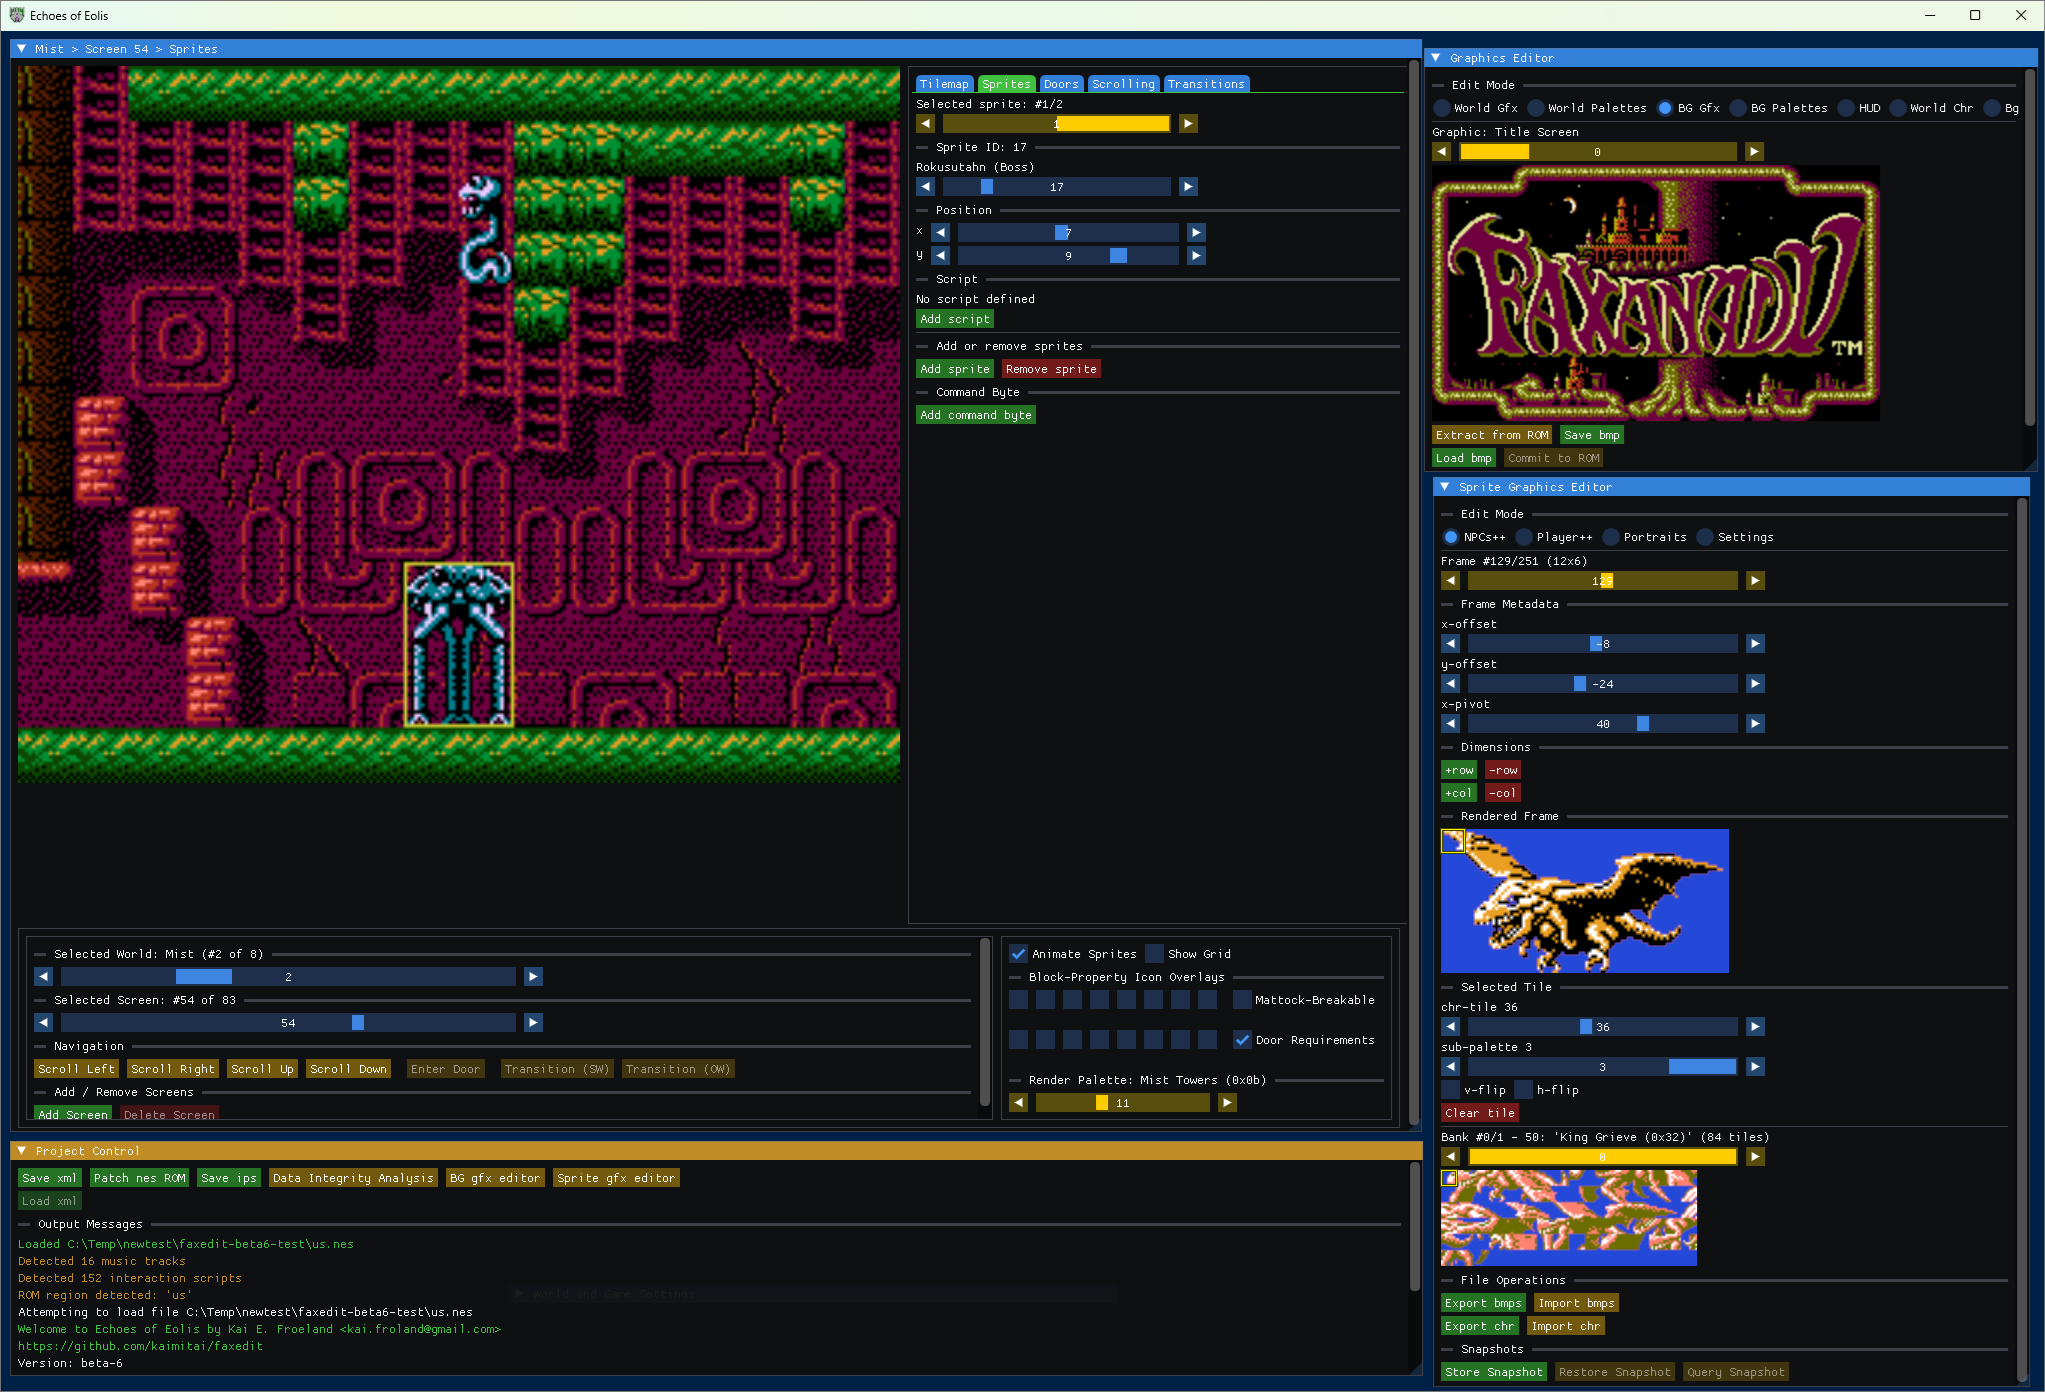
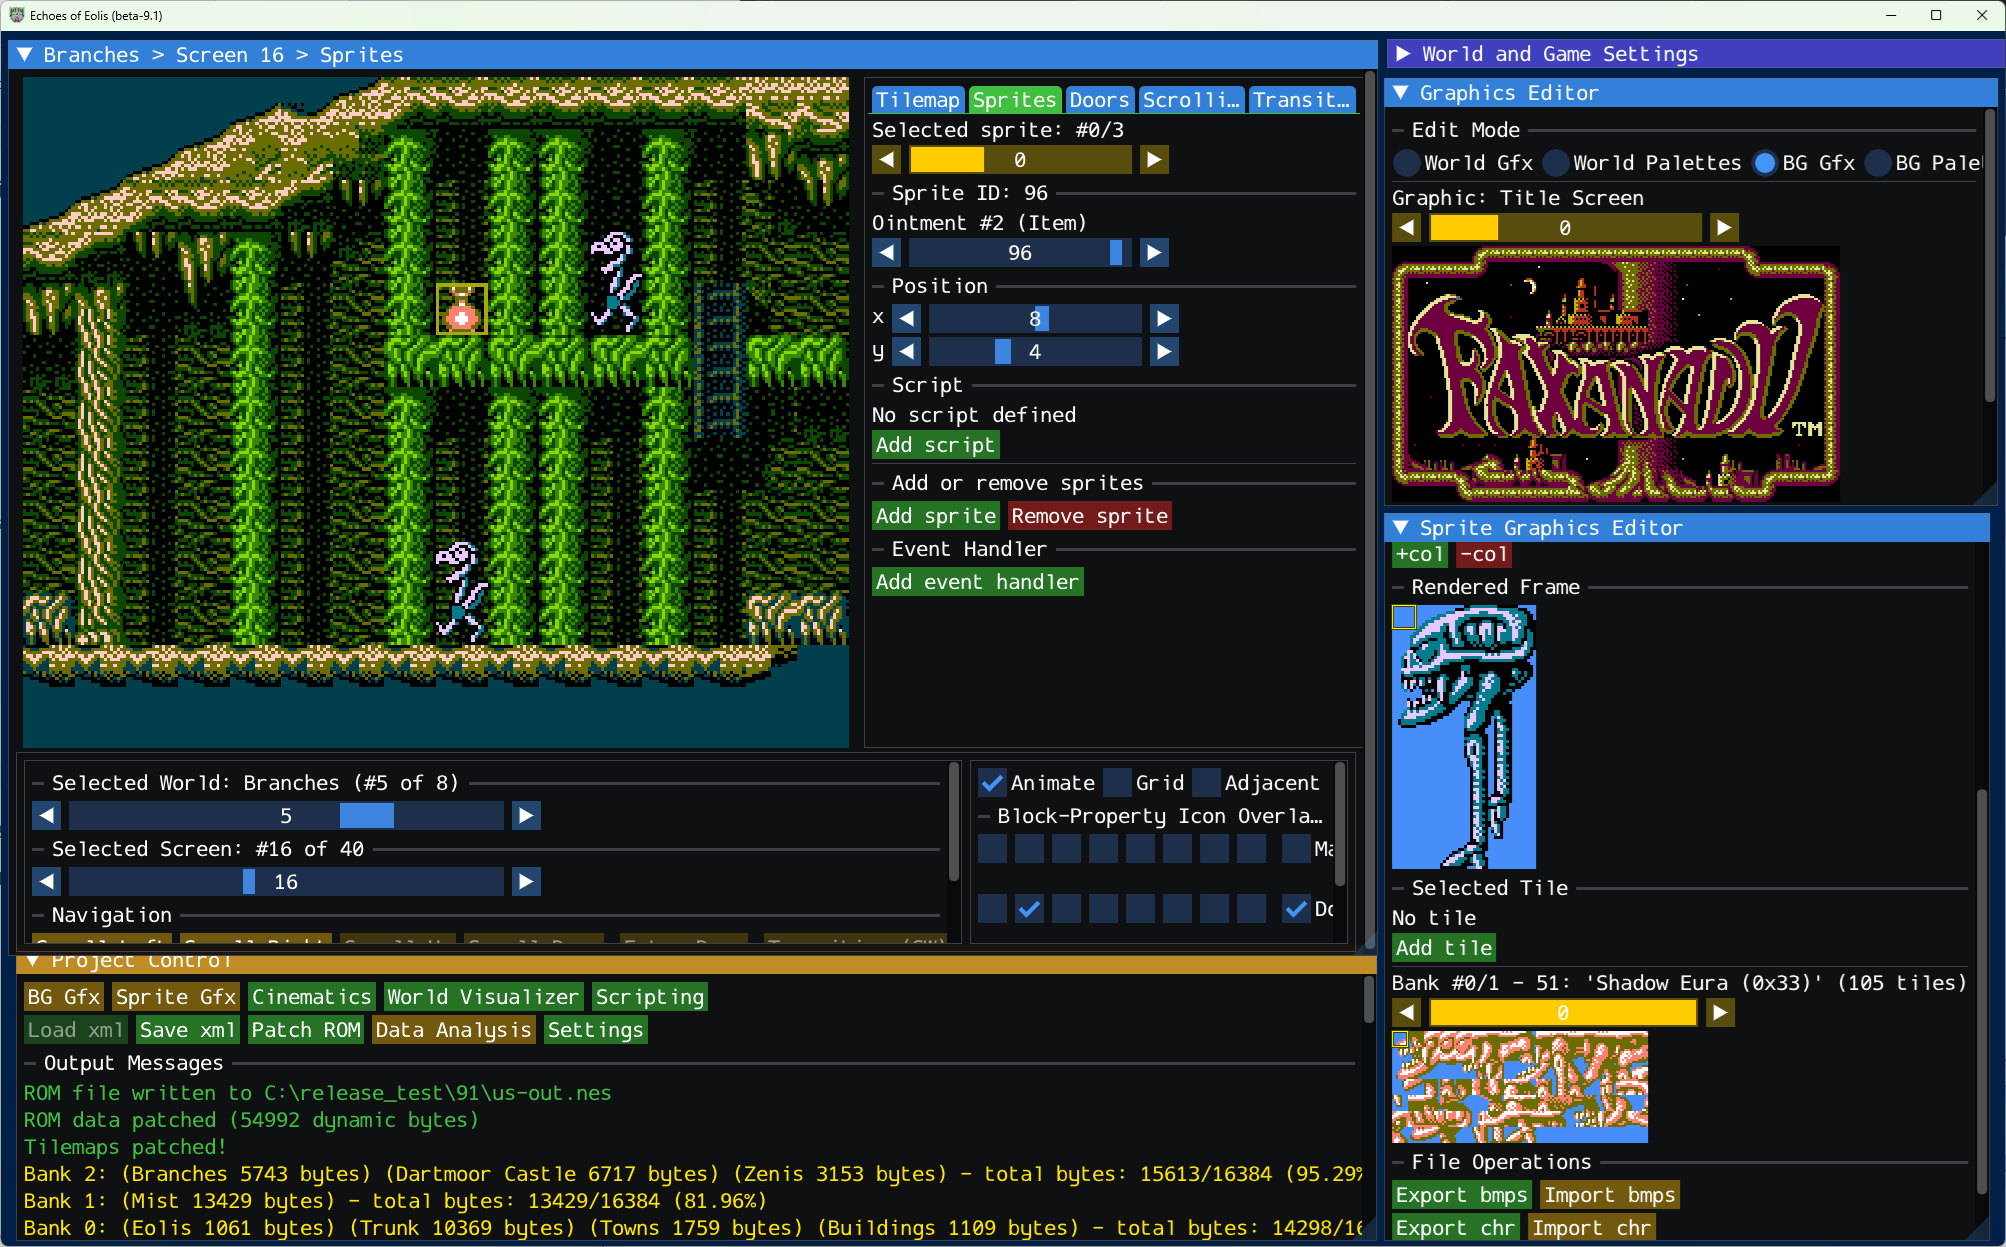
Reorganize project control window
- group editor windows and project actions into separate rows
- shorten control button labels
- hide IPS generation by default
- remove external ROM changes button
- update project control documentation and screenshots

diff --git a/faxedit/src/windows/ControlWindow.cpp b/faxedit/src/windows/ControlWindow.cpp
@@ -62,64 +62,24 @@ void fe::MainWindow::patch_nes_rom(bool p_in_place) {
 }
 
 void fe::MainWindow::draw_control_window(SDL_Renderer* p_rnd) {
+	const bool l_shift{ ImGui::IsKeyDown(ImGuiMod_Shift) };
 
 	ui::imgui_screen("Project Control###pcw", c::WIN_CONTROLS_X, c::WIN_CONTROLS_Y,
 		c::WIN_CONTROLS_W, c::WIN_CONTROLS_H, 4);
 
-	if (ui::imgui_button("Save xml", 2))
-		save_xml();
-
-	ImGui::SameLine();
-
-	bool l_shift{ ImGui::IsKeyDown(ImGuiMod_Shift) };
-
-	if (ui::imgui_button("Patch nes ROM",
-		l_shift ? 4 : 2,
-		"Patch loaded ROM file"))
-		patch_nes_rom(l_shift);
-
-	if (m_settings.m_enable_ips_button) {
-
-		ImGui::SameLine();
-
-		if (ui::imgui_button("Save ips", 2, "Generate ips patch file")) {
-
-			try {
-				const auto tmp_config{ hot_reload_config() };
-				fe::game::generate_ips_to_file(tmp_config, m_game.value(), get_ips_path(),
-					get_rom_patch_options(m_settings), m_msg_callback);
-			}
-			catch (const std::exception& ex) {
-				add_message(ex.what(), fe::MsgType::Error);
-			}
-		}
-	}
-
-	ImGui::SameLine();
-
-	if (ui::imgui_button("Data Integrity Analysis", 4)) try {
-		fe::game::analyze_game_data(m_game.value(), m_config,
-			m_settings.m_warn_tilemap_95_pct, m_settings.m_warn_00_doors, m_msg_callback);
-	}
-	catch (const std::exception& ex) {
-		add_message(std::format("Data Integrity Analysis failed: {}", ex.what()), fe::MsgType::Error);
-	}
-
-	ImGui::SameLine();
-
-	if (ui::imgui_button("BG gfx editor",
+	if (ui::imgui_button("BG Gfx",
 		m_gfx_window ? 4 : 2))
 		m_gfx_window = !m_gfx_window;
 
 	ImGui::SameLine();
 
-	if (ui::imgui_button("Sprite gfx editor",
+	if (ui::imgui_button("Sprite Gfx",
 		m_sprite_gfx_window ? 4 : 2))
 		m_sprite_gfx_window = !m_sprite_gfx_window;
 
 	ImGui::SameLine();
 
-	if (ui::imgui_button("Cinematic editor",
+	if (ui::imgui_button("Cinematics",
 		m_cinematic_window ? 4 : 2))
 		m_cinematic_window = !m_cinematic_window;
 
@@ -147,18 +107,46 @@ void fe::MainWindow::draw_control_window(SDL_Renderer* p_rnd) {
 		}
 	}
 
-	if (ui::imgui_button("Load xml", 2, "", !ImGui::IsKeyDown(ImGuiMod_Shift)))
+	if (ui::imgui_button("Load xml", 2, "", !l_shift))
 		load_xml(p_rnd);
 
 	ImGui::SameLine();
 
-	if (ui::imgui_button("Apply External ROM Changes", 4,
-		"Re-read the ROM file from disk and apply external changes. Does not rebuild or reset the editor state.")) try {
-		int byte_diffs{ load_external_rom_data(klib::file::read_file_as_bytes(m_loaded_rom_path)) };
-		add_message(std::format("Applied external changes from {} ({} bytes different)", m_loaded_rom_path, byte_diffs), fe::MsgType::Success);
+	if (ui::imgui_button("Save xml", 2))
+		save_xml();
+
+	ImGui::SameLine();
+
+	if (ui::imgui_button("Patch ROM",
+		l_shift ? 4 : 2,
+		"Patch loaded ROM file"))
+		patch_nes_rom(l_shift);
+
+	if (m_settings.m_enable_ips_button) {
+
+		ImGui::SameLine();
+
+		if (ui::imgui_button("Save ips", 2, "Generate ips patch file")) {
+
+			try {
+				const auto tmp_config{ hot_reload_config() };
+				fe::game::generate_ips_to_file(tmp_config, m_game.value(), get_ips_path(),
+					get_rom_patch_options(m_settings), m_msg_callback);
+			}
+			catch (const std::exception& ex) {
+				add_message(ex.what(), fe::MsgType::Error);
+			}
+		}
+	}
+
+	ImGui::SameLine();
+
+	if (ui::imgui_button("Data Analysis", 4)) try {
+		fe::game::analyze_game_data(m_game.value(), m_config,
+			m_settings.m_warn_tilemap_95_pct, m_settings.m_warn_00_doors, m_msg_callback);
 	}
 	catch (const std::exception& ex) {
-		add_message(ex.what(), fe::MsgType::Error);
+		add_message(std::format("Data Integrity Analysis failed: {}", ex.what()), fe::MsgType::Error);
 	}
 
 	ImGui::SameLine();

diff --git a/eoe_core/src/fe/EditorSettings.cpp b/eoe_core/src/fe/EditorSettings.cpp
@@ -84,7 +84,7 @@ void fe::EditorSettings::set_rendering_defaults(void) {
 void fe::EditorSettings::set_advanced_defaults(void) {
 	m_door_pad_byte = false;
 	m_enable_config_dump = false;
-	m_enable_ips_button = true;
+	m_enable_ips_button = false;
 	m_warn_tilemap_95_pct = true;
 	m_warn_00_doors = true;
 }

diff --git a/docs/user-guide.md b/docs/user-guide.md
@@ -77,20 +77,24 @@ This is the screen used for file operations and data analysis.
 
 ![Project control](./img/win_project_control.png)
 
-* Save xml: Saves the project as an xml-file, the recommended master data format
-* Patch nes ROM: Writes the ROM file, appends -out to the filename so your loaded file is not overwritten. Will show output messages regarding the used data sizes (hold shift to patch the ROM in-place)
-* Save ips: Generates an ips patch file
-* Data Integrity Analysis: Does some checking on whether there is problems in your data
-* BG gfx editor: Opens or closes the Background Graphics Editor window
-* Sprite gfx editor: Opens or closes the Sprite Graphics Editor window
-* Cinematic editor: Opens or closes the Cinematic Editor window
-* World Visualizer: Opens a window which lets you export an entire world to a png-image, with certain parameters
-* Load xml: Reloads xml from file and re-populates your data. Hold Shift to use.
-* Apply External ROM Changes: Re-reads the loaded rom from disk, and regenerates iScripts and music track counts. Should be used if the ROM undergoes external changes.
-* Output Messages: The messages from the editor
-* Settings: Opens the [settings window](#settings)
+- Top row buttons
+  - `BG Gfx`: Opens or closes the Background Graphics Editor window
+  - `Sprite Gfx`: Opens or closes the Sprite Graphics Editor window
+  - `Cinematics`: Opens or closes the Cinematic Editor window
+  - `World Visualizer`: Opens a window which lets you export an entire world to a png-image, with certain parameters
+  - `Scripting`: Opens the [Scripting](#scripting) window, from which you can deploy various script types, music and misc. data
 
-The tilemaps are stored in four different banks in ROM, but the tilemaps for all screens for any world need to be fully contained within one bank. The editor will tell you which banks it used for which worlds, and report on used and available space.
+- Bottom row buttons
+  - `Load xml`: Reloads project xml from file and re-populates your data. Hold Shift to use.
+  - `Save xml`: Saves the project as an xml-file, the recommended master data format
+  - `Patch ROM`: Writes the ROM file, appends -out to the filename so your loaded file is not overwritten. Will show output messages regarding the used data sizes (hold shift to patch the ROM in-place, not recommended)
+  - `Save ips`: Generates an ips patch file (when enabled, via `Settings > Advanced`)
+  - `Data Analysis`: Reports on potential problems in the game data
+  - `Settings`: Opens the [settings window](#settings)
+
+- Output Messages: The messages from the editor
+
+The tilemaps are stored in four different banks in ROM (or more for expanded ROMs), but the tilemaps for all screens for any world need to be fully contained within one bank. The editor will tell you which banks it used for which worlds, and report on used and available space.
 
 Some Keyboard shortcuts are always availabe when a ROM is loaded:
 * Ctrl + S: Save xml
